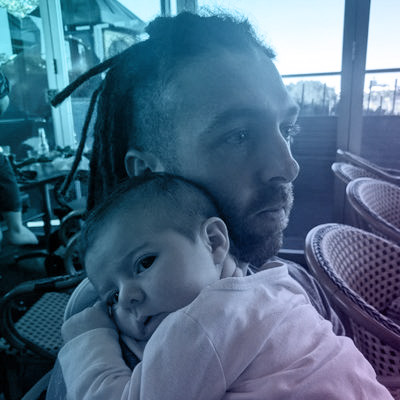
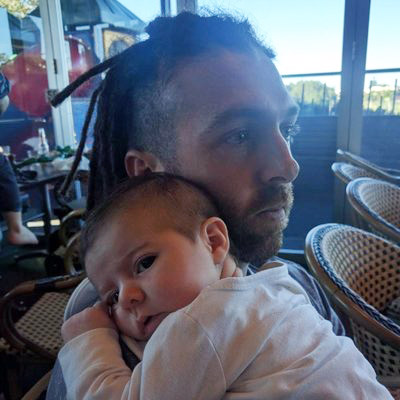
Add articles. Update intro text. Remove treatment from headshots.

diff --git a/index.html b/index.html
@@ -32,7 +32,33 @@
 		<div class="page-width">
 			<section class="content-section">
 				<div class="intro">
-					<p>Syntropy is on a mission to accelerate the automation of everything by solving the biggest problem in AI; unsupervised learning. We believe this will lead to an unprecedented step change in our collective human horsepower, allowing us to overcome our most important challenges like death, wealth inequality, and&nbsp;climate&nbsp;change.</p>
+					<p>Our goal is to make machines that understand the world like humans do. We believe this will lead to an unprecedented step change in our collective human horsepower, allowing us to overcome our most important challenges like death, wealth inequality, and&nbsp;climate&nbsp;change.</p>
+				</div>
+			</section>
+
+			<section class="content-section articles">
+				<div class="articles-inner">
+					<header>
+						<h2>Articles</h2>
+					</header>
+					<div>
+						<article class="article">
+							<header>
+								<h3 class="article-title"><a href="https://medium.com/syntropy-ai/syntropy-thesis-3443dd010d24" target="_blank">How can we make machines understand the world like humans do?</a></h3>
+							</header>
+							<div class="article-summary">
+								<p>We explain our mission, why deep learning won't get us there, and the principles that are guiding us as we work towards a solution. <a href="https://medium.com/syntropy-ai/syntropy-thesis-3443dd010d24" class="article-link" target="_blank">Read more</a></p>
+							</div>
+						</article>
+						<article class="article">
+							<header>
+								<h3 class="article-title"><a href="https://medium.com/syntropy-ai/unsupervised-learning-invariant-manifolds-fcd0c4d3e7ef" target="_blank">Unsupervised learning of a useful hierarchy of visual concepts</a></h3>
+							</header>
+							<div class="article-summary">
+								<p>Humans learn about our visual world through experience, not labels. How can we get machines to do the same? <a href="https://medium.com/syntropy-ai/unsupervised-learning-invariant-manifolds-fcd0c4d3e7ef" class="article-link" target="_blank">Read more</a></p>
+							</div>
+						</article>
+					</div>
 				</div>
 			</section>
 

diff --git a/style.css b/style.css
@@ -68,7 +68,8 @@ a {
 	background-image: linear-gradient(to bottom,#1c8d9d 50%,rgba(0,0,0,0) 50%);
     background-repeat: repeat-x;
     background-size: 2px .1em;
-    background-position: 0 1.08em;
+	background-position: 0 1.08em;
+	transition: color .2s linear;
 }
 a:hover {
 	color: #255e7a;
@@ -250,7 +251,7 @@ hr:after {
 }
 /* Articles */
 .articles {
-	max-width: 700px;
+	max-width: 730px;
 	padding: 20px;
 	margin: 4em auto;
 	background: rgb(25,156,169);
@@ -295,6 +296,14 @@ hr:after {
 	color: #24627d;
 	margin-top: 0;
 }
+.article-title a {
+	color: #24627d;
+	text-decoration: none;
+	background: transparent;
+}
+.article-title a:hover {
+	color: #1c8d9d;
+}
 .article-summary p {
 	margin-bottom: 8px;
 }
@@ -333,6 +342,7 @@ hr:after {
 }
 .team-member--title {
 	margin-bottom: 1rem;
+	margin-top: 0;
 }
 .team-member--subtitle {
 	font-size: 1.8rem;
